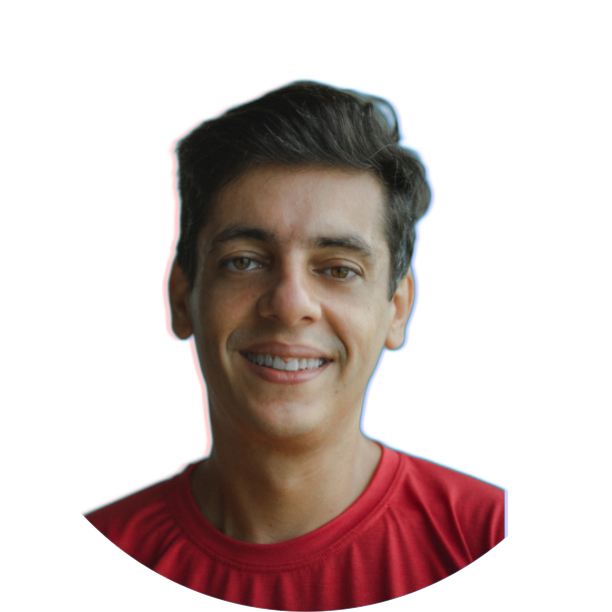
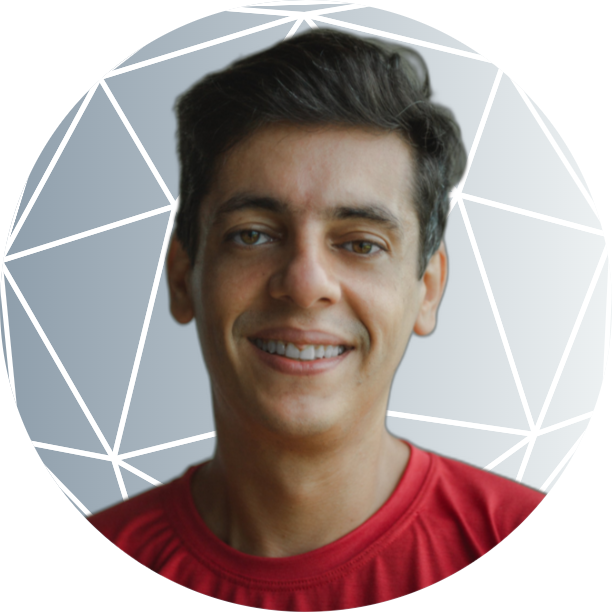
Change profile pic

diff --git a/_tabs/about.md b/_tabs/about.md
@@ -4,5 +4,4 @@ icon: fas fa-info-circle
 order: 4
 ---
 
-> Add Markdown syntax content to file `_tabs/about.md`{: .filepath } and it will show up on this page.
-{: .prompt-tip }
+Desenvolveodr Ruby on Rails desde agosto de 2022.
